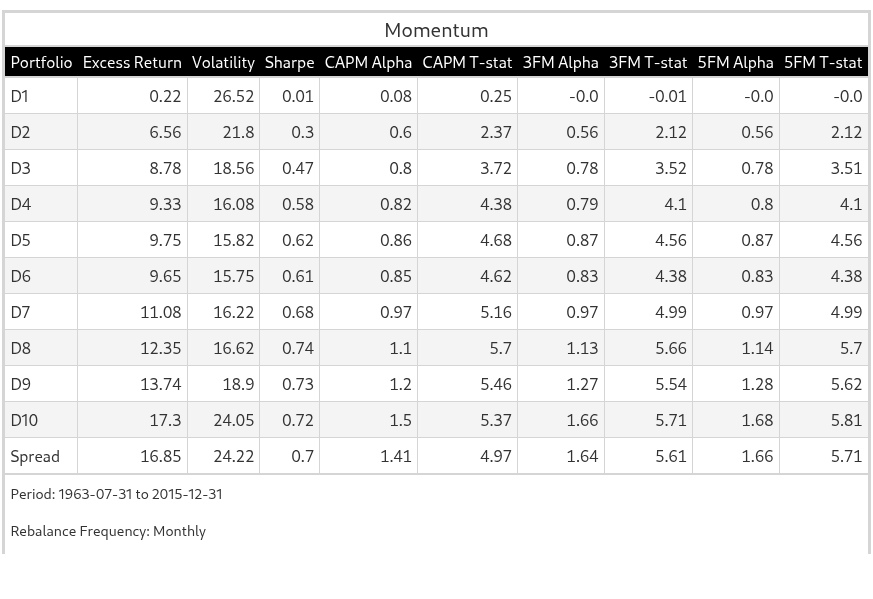
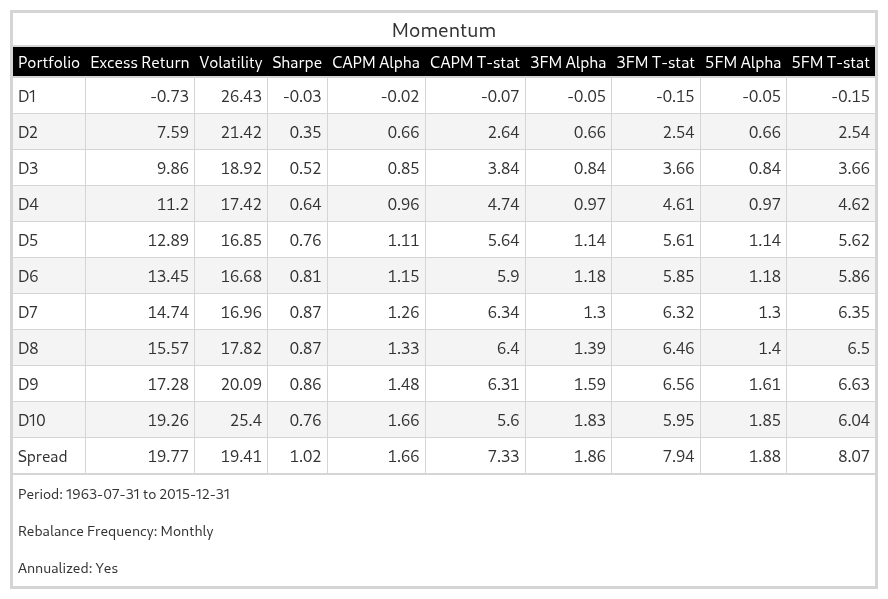
Updated results.

diff --git a/research/portfolios.py b/research/portfolios.py
@@ -5,7 +5,7 @@ from research.models import Constraint, Signal
 
 
 def construct_quantile_portfolios(
-    data: pl.DataFrame, n_bins: int, signal: Signal, weighting_scheme: str
+    data: pl.DataFrame, n_bins: int, signal: Signal, weighting_scheme: str, drop_null: bool = True
 ) -> pl.DataFrame:
     labels = [str(i) for i in range(n_bins)]
     portfolios = data.with_columns(
@@ -16,6 +16,9 @@ def construct_quantile_portfolios(
         .over("date")
         .alias("bin")
     )
+
+    if drop_null:
+        portfolios = portfolios.filter(pl.col('bin').ne('null'))
 
     if weighting_scheme == "equal":
         return portfolios.with_columns(

diff --git a/research/experiments/experiment_7.py b/research/experiments/experiment_7.py
@@ -13,7 +13,7 @@ def experiment_7():
     start = dt.date(1963, 7, 31)
     end = dt.date(2015, 12, 31)    
     n_bins = 10
-    weighting_scheme = "market_cap"
+    weighting_scheme = "equal"
     rebalance_frequency = "monthly"
     annualize_results = True
 

diff --git a/research/experiments/experiment_9.py b/research/experiments/experiment_9.py
@@ -13,7 +13,7 @@ def experiment_9():
     start = dt.date(2016, 1, 1)
     end = dt.date(2024, 12, 31)    
     n_bins = 10
-    weighting_scheme = "market_cap"
+    weighting_scheme = "equal"
     rebalance_frequency = "monthly"
     annualize_results = True
 

diff --git a/research/experiments/experiment_8.py b/research/experiments/experiment_8.py
@@ -13,7 +13,7 @@ def experiment_8():
     start = dt.date(1963, 7, 31)
     end = dt.date(2015, 12, 31)  
     n_bins = 10
-    weighting_scheme = "market_cap"
+    weighting_scheme = "equal"
     rebalance_frequency = "monthly"
     annualize_results = True
 

diff --git a/research/experiments/experiment_10.py b/research/experiments/experiment_10.py
@@ -11,7 +11,6 @@ def experiment_10():
     annualize_results = True
     gamma = 60.0
     start = dt.date(2016, 1, 1)
-    # start = dt.date(2000, 1, 1)
     end = dt.date(2024, 12, 31)
 
     signal_names = [
